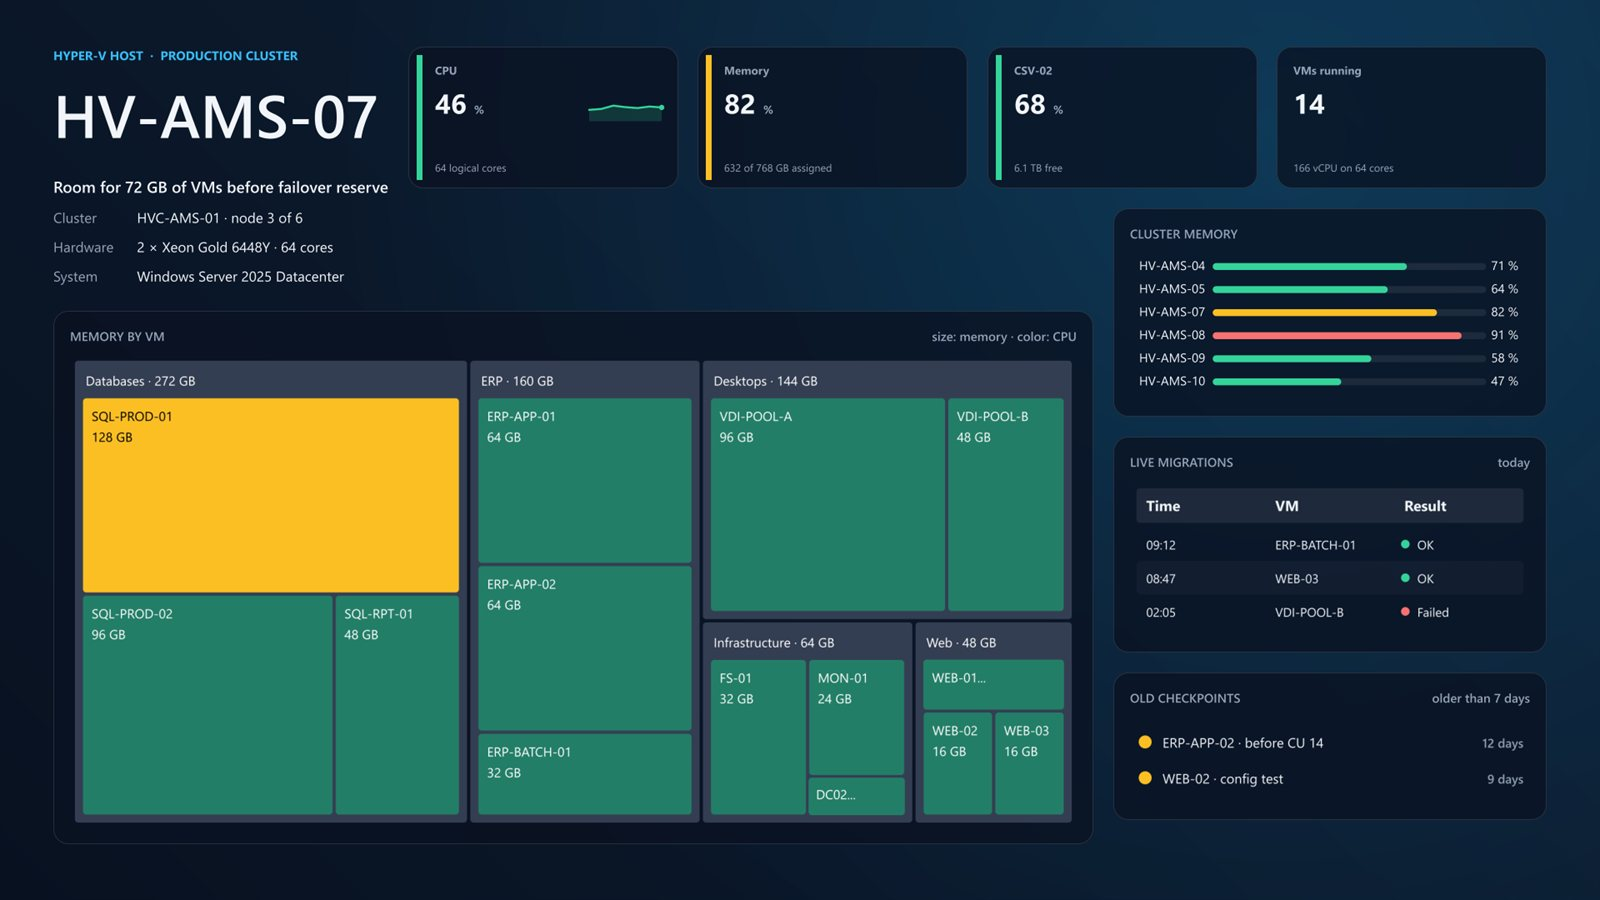
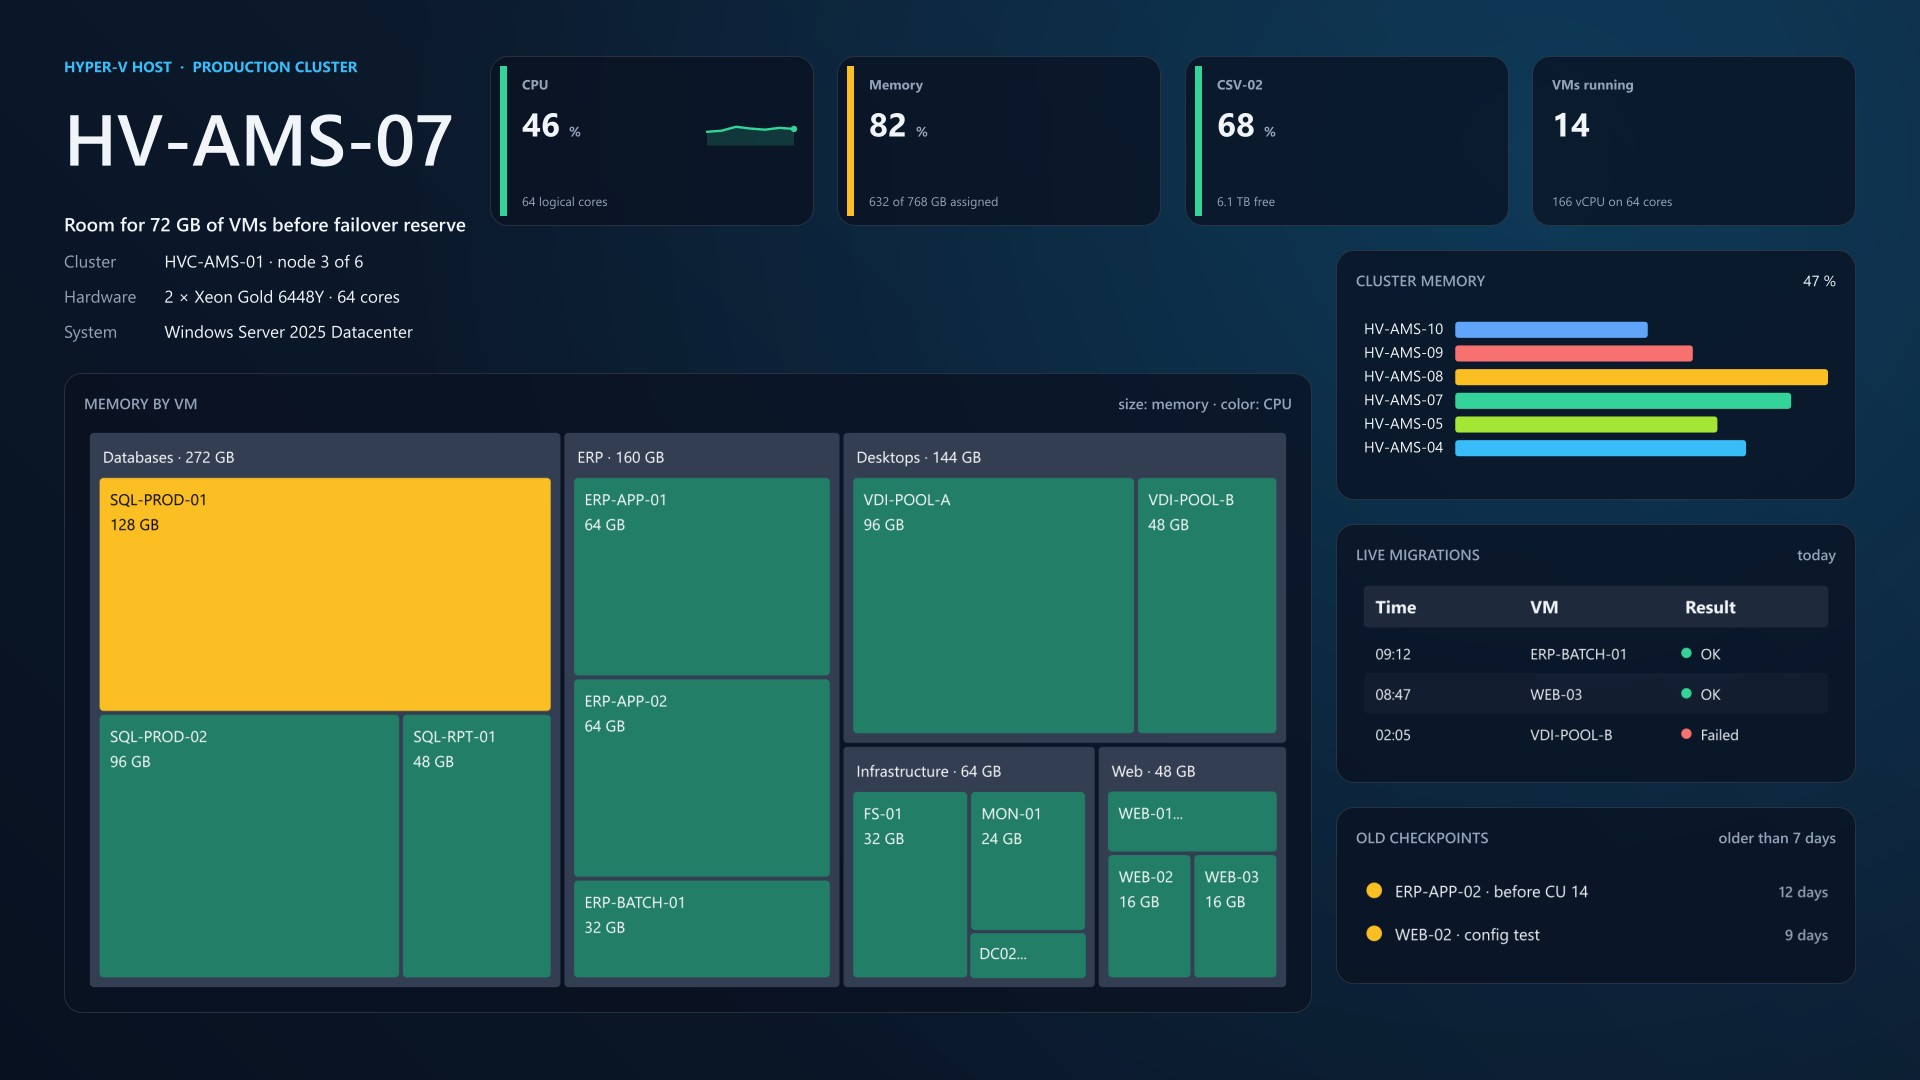
Fix horizontal bar palette and labels

Changed region(s): [[0.6875, 0.28, 0.9688, 0.4356]]

diff --git a/Sources/PowerBGInfo.Tests/BgInfoChartRendererTests.cs b/Sources/PowerBGInfo.Tests/BgInfoChartRendererTests.cs
@@ -3,6 +3,7 @@ using ChartForgeX.Core;
 using ChartForgeX.Primitives;
 using ChartForgeX.Typography;
 using ChartForgeX.Themes;
+using System.Globalization;
 using System.Xml.Linq;
 
 namespace PowerBGInfo.Tests;
@@ -60,6 +61,50 @@ public class BgInfoChartRendererTests
         Assert.Equal(chart.Palette, rendered.Options.Theme.Resolve(mode).Palette);
         Assert.Equal(ChartColors.Gold, rendered.Options.TitleStyle.Color);
         Assert.Equal(ChartColors.Cyan, rendered.Options.DataLabelStyle.Color);
+    }
+
+    [Fact]
+    public void HorizontalBarsUseConfiguredPaletteAndCategoryCaptions()
+    {
+        var chart = new BgInfoChart {
+            Kind = BgInfoChartKind.HorizontalBar,
+            Labels = new[] { "Directory", "Database", "File service" },
+            Palette = new[] { ChartColors.Red, ChartColors.Green, ChartColors.Blue },
+            ShowDataLabels = true
+        };
+        var values = new[] { 68d, 52d, 37d };
+
+        var rendered = BgInfoChartRenderer.BuildChartForgeXChart(chart, values, new BgInfoConfiguration(), 520, 220);
+        var nodes = XDocument.Parse(rendered.ToSvg()).Descendants().ToArray();
+        var bars = nodes.Where(node => (string?)node.Attribute("data-cfx-role") == "horizontal-bar").ToArray();
+
+        Assert.Equal(3, bars.Length);
+        Assert.Contains(nodes, node => node.Name.LocalName == "text" && node.Value == "Directory");
+        Assert.Contains(nodes, node => node.Name.LocalName == "text" && node.Value == "Database");
+        Assert.Contains(nodes, node => node.Name.LocalName == "text" && node.Value == "File service");
+        Assert.Contains(bars, node => ((string?)node.Attribute("fill"))?.Contains("#FF0000", StringComparison.OrdinalIgnoreCase) == true);
+        Assert.Contains(bars, node => ((string?)node.Attribute("fill"))?.Contains("#008000", StringComparison.OrdinalIgnoreCase) == true);
+        Assert.Contains(bars, node => ((string?)node.Attribute("fill"))?.Contains("#0000FF", StringComparison.OrdinalIgnoreCase) == true);
+    }
+
+    [Fact]
+    public void HorizontalBarsKeepEveryCaptionWhenRowsAreDense()
+    {
+        var labels = new[] { "HV-AMS-01", "HV-AMS-02", "HV-AMS-03", "HV-AMS-04", "HV-AMS-05", "HV-AMS-06" };
+        var chart = new BgInfoChart { Kind = BgInfoChartKind.HorizontalBar, Labels = labels };
+        var rendered = BgInfoChartRenderer.BuildChartForgeXChart(chart, new[] { 12d, 24, 36, 48, 60, 72 }, new BgInfoConfiguration(), 520, 220);
+        var captions = XDocument.Parse(rendered.ToSvg()).Descendants()
+            .Where(node => node.Name.LocalName == "text")
+            .ToArray();
+        var captionTexts = captions.Select(node => node.Value).ToArray();
+
+        Assert.Equal(ChartLabelDensity.All, rendered.Options.YAxis.LabelDensity);
+        foreach (var label in labels) Assert.Contains(label, captionTexts);
+        var categoryRows = captions.Where(node => labels.Contains(node.Value, StringComparer.Ordinal))
+            .Select(node => double.Parse((string)node.Attribute("y")!, CultureInfo.InvariantCulture))
+            .OrderBy(value => value)
+            .ToArray();
+        Assert.Equal(labels.Length, categoryRows.Distinct().Count());
     }
 
     [Theory]

diff --git a/Sources/PowerBGInfo/BgInfoChartRenderer.cs b/Sources/PowerBGInfo/BgInfoChartRenderer.cs
@@ -114,9 +114,9 @@ internal static class BgInfoChartRenderer {
             .WithTransparentBackground()
             .WithHeader(false)
             .WithLegend(false)
-            .WithAxes(false)
+            .WithAxes(chart.Kind == BgInfoChartKind.HorizontalBar)
             .WithXAxisVisible(false)
-            .WithYAxisVisible(false)
+            .WithYAxisVisible(chart.Kind == BgInfoChartKind.HorizontalBar)
             .WithAxisLines(false)
             .WithCard(false)
             .WithPlotBackground(false)
@@ -155,6 +155,13 @@ internal static class BgInfoChartRenderer {
                 plot.AddSeries(WithPointColors(ChartSeries.CreateBar(SeriesId(chart), chart.Title, BuildIndexedPoints(values), accent), palette, values.Count));
                 break;
             case BgInfoChartKind.HorizontalBar:
+                var labels = BuildLabels(chart, values.Count);
+                plot.ConfigureYAxis(axis => {
+                    axis.TickCount = Math.Max(2, labels.Length);
+                    axis.LabelDensity = ChartLabelDensity.All;
+                    axis.Labels.Clear();
+                    for (var index = 0; index < labels.Length; index++) axis.Labels.Add(new ChartAxisLabel(index + 1, labels[index]));
+                });
                 plot.AddSeries(WithPointColors(new ChartSeries(SeriesId(chart), chart.Title, ChartSeriesKind.HorizontalBar, BuildIndexedPoints(values)) { Color = accent }, palette, values.Count));
                 break;
             case BgInfoChartKind.Line:

diff --git a/Sources/PowerBGInfo/Widgets/BgInfoWidgetRenderer.cs b/Sources/PowerBGInfo/Widgets/BgInfoWidgetRenderer.cs
@@ -53,6 +53,7 @@ internal sealed class BgInfoWidgetStyle {
         colors.Accent = Accent;
         colors.SecondaryAccent = SecondaryAccent;
         colors.Positive = Status.Ok;
+        colors.Info = Status.Info;
         colors.Warning = Status.Warning;
         colors.Negative = Status.Critical;
         colors.Border = WithAlpha(Grid, 90);
